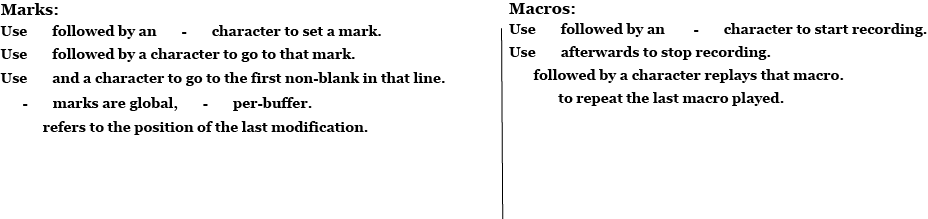
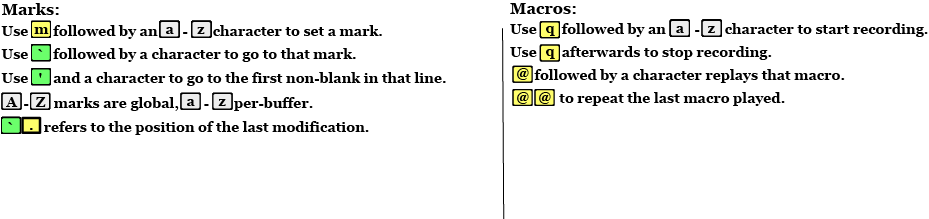
Credit to viemu.com Info for all lessons

diff --git a/js/popup.js b/js/popup.js
@@ -41,19 +41,18 @@ $(document).ready(function(){
     curLesson = $("#lesson-choice").find(":selected").val();
     if(curLesson == "11"){
       loadKeyboard(curLayout);
+      $(".info-key").html("<img src='/images/about/all.png'>");
     }
     else{
       loadLesson(curLesson);
+      $(".info-key").html("<img src='/images/about/lesson_"+curLesson+".png'>");
     }
   });
 });
 
 function loadLesson(lesson){
   console.log(lesson);
-  layer = "";
-
   $(".key").addClass("faded");
-  currentKeyboard =
   $(lessons[lesson].split("")).each(function(i, k){
     keySpan    = "<span class='key-value'>"+k+"</span>";
     lessonSpan = $( "div:contains('"+keySpan+"')" );
@@ -110,16 +109,14 @@ function loadInfo(key, shifted){
     key = key.toUpperCase();
   }
   if(typeof key_info[key] != 'undefined'){
-    $(".info-title").html(key_info[key]["title"]);
-    $(".info-text").html(key_info[key]["text"]);
+    $(".info-key").html(key_info[key]["text"]);
     if(typeof key_info[key]["image"] != 'undefined'){
-      $(".info-key").html("<img src='"+key_info[key]["image"]+"'>");
+      $(".info-key").append("<img src='"+key_info[key]["image"]+"'>");
     }else{
-      $(".info-key").html(key);
+      $(".info-key").append(key);
     }
   }else{
-    $(".info-key").html("");
-    $(".info-title").html("no Vim info yet");
-    $(".info-text").html("Contribute on: <a href='https://github.com/shadoath/vim-what' target='_blank'>GitHub</a>");
+    $(".info-key").html("no Vim info yet");
+    $(".info-key").append("Contribute on: <a href='https://github.com/shadoath/vim-what' target='_blank'>GitHub</a>");
   }
 }

diff --git a/popup.html b/popup.html
@@ -31,21 +31,7 @@
     </div>
     <div class="info">
       <div class="info-key">
-        <img src="/images/about/info_motion.png"><br>
-        <img src="/images/about/info_command.png"><br>
-        <img src="/images/about/info_operator.png"><br>
-        <img src="/images/about/info_extra.png"><br>
-        <img src="/images/about/info_dot.png"><br>
-        <img src="/images/about/info_short.png"><br>
-      </div>
-      <div class="info-title">
-        <img src="/images/about/info_command_examples.png"><br>
-        <img src="/images/about/info_command_extras.png"><br>
-        <img src="/images/about/info_command_extras.png"><br>
-      </div>
-      <br>
-      <div class="info-text">
-        <img src="/images/about/info_notes.png"><br>
+        <img src="/images/about/all.png"><br>
       </div>
     </div>
   </body>

diff --git a/css/popup.css b/css/popup.css
@@ -70,19 +70,9 @@ body {
 }
 
 .info-key{
-  max-width: 30%;
   float: left;
   width: auto;
   margin-right: 30px;
-}
-.info-title{
-  float: left;
-  max-width: 30%;
-}
-.info-text{
-  max-width: 30%;
-  float: right;
-  width: auto;
 }
 .info img {
   max-width: 100%;

diff --git a/README.md b/README.md
@@ -3,3 +3,4 @@ Learn and remember vim commands
 
 Project inspired by all the wonderful Vim plugin makers, cheat sheet guides and general challenge to learn Vim.
 
+With Special thanks to [Jon](http://www.viemu.com/a_vi_vim_graphical_cheat_sheet_tutorial.html)
